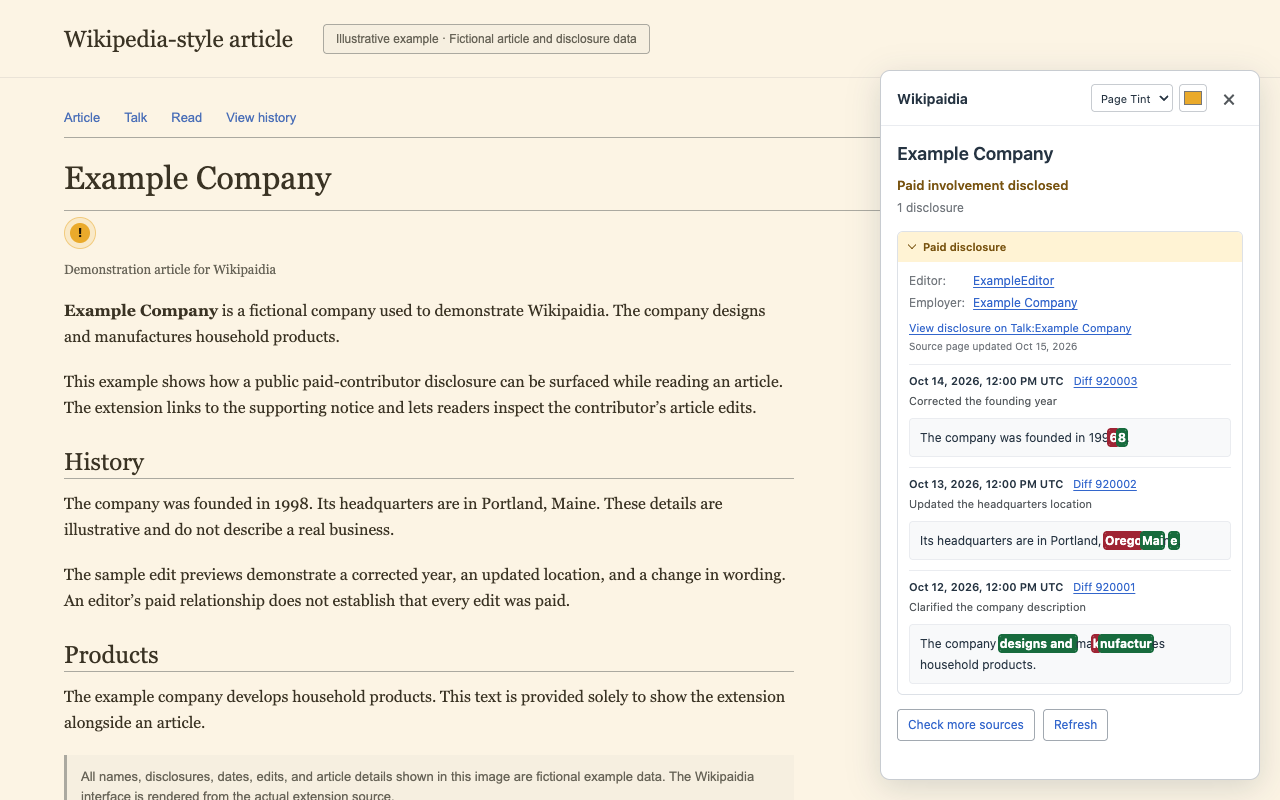
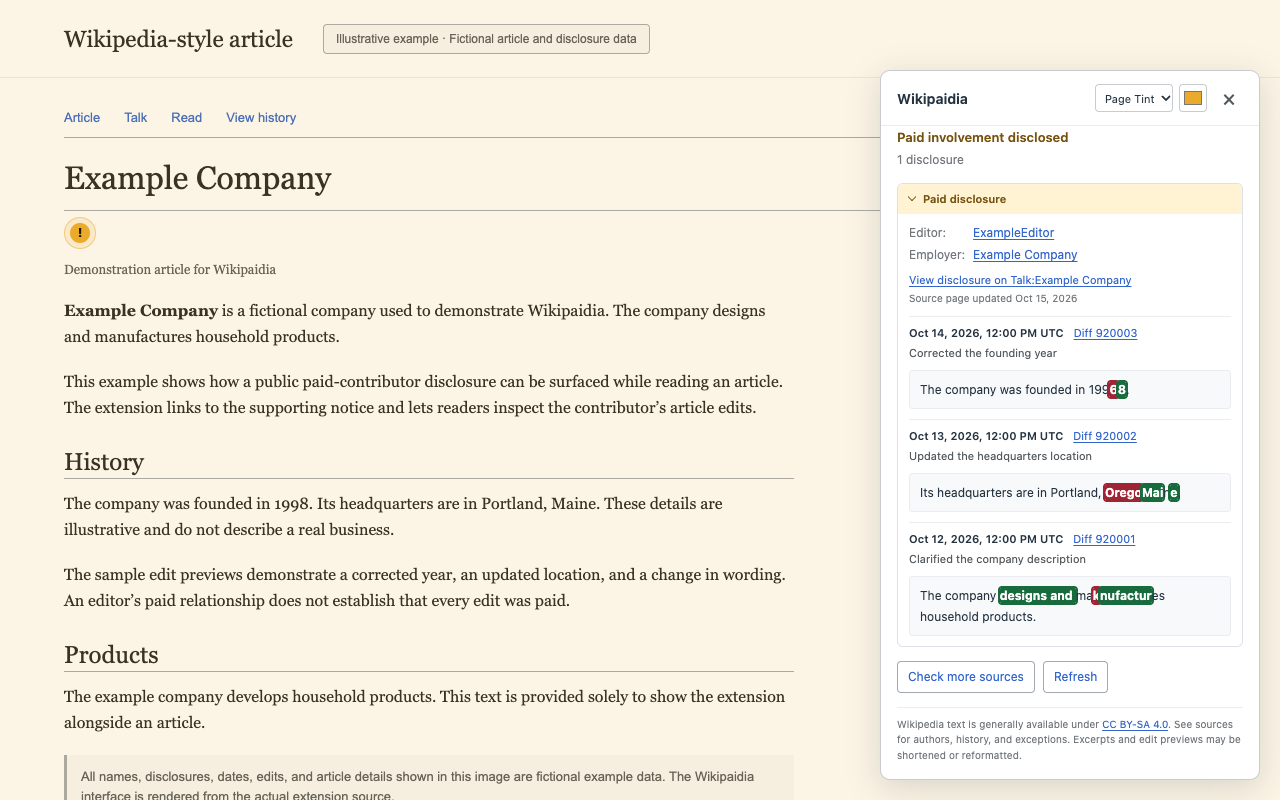
Add Wikipedia text attribution and record store preparation

Changed region(s): [[0.6875, 0.1562, 0.9688, 0.9688], [0.875, 0.0938, 0.9062, 0.125]]

diff --git a/extension/content.js b/extension/content.js
@@ -124,6 +124,8 @@
     .action:hover { background:#f8f9fa; }
     .action:disabled { opacity:.5; cursor:wait; }
     .warning { color:#785310; font-size:11px; margin-top:8px; }
+    .attribution { margin-top:14px; padding-top:9px; border-top:1px solid #eaecf0; color:#72777d; font-size:10px; line-height:1.55; }
+    .attribution .source { font-size:inherit; }
     .preference-error { color:#785310; font-size:11px; padding:7px 16px 0; }
     @media(max-width:480px) { .panel { right:12px; top:12px; width:calc(100vw - 24px); height:calc(100dvh - 24px); } }
     @media print { .panel,.page-tint { display:none !important; } }
@@ -779,7 +781,12 @@
   actions.append(moreButton, refreshButton);
   const sourceError = el("p", "warning");
   sourceError.setAttribute("role", "status");
-  scroll.append(articleTitle, statusBox, historical, cards, actions, sourceError);
+  const attribution = el("p", "attribution");
+  attribution.hidden = true;
+  attribution.append("Wikipedia text is generally available under ",
+    sourceLink("CC BY-SA 4.0", "https://en.wikipedia.org/wiki/Wikipedia:Text_of_the_Creative_Commons_Attribution-ShareAlike_4.0_International_License"),
+    ". See sources for authors, history, and exceptions. Excerpts and edit previews may be shortened or reformatted.");
+  scroll.append(articleTitle, statusBox, historical, cards, actions, sourceError, attribution);
 
   function evidenceKey(item) {
     return item.id || `${item.kind}:${item.sourceTitle}:${item.sourceRevision}:${item.contributor || ""}:${item.coiType || ""}`;
@@ -832,6 +839,7 @@
       refreshButton.textContent = error ? "Retry" : loading ? "Refreshing…" : "Refresh";
       sourceError.textContent = augmentationError;
       sourceError.hidden = !augmentationError;
+      attribution.hidden = evidence.length === 0;
     });
     startAutomaticEdits();
   }

diff --git a/store-submissions/safari-listing.md b/store-submissions/safari-listing.md
@@ -8,9 +8,33 @@ Safari/WebKit behavior and the macOS containing app.
 This submission targets **Safari on macOS only**. It does not claim iPhone, iPad
 or visionOS support. Use `dist/Wikipaidia-Safari-0.11.0.zip` with Apple's web
 packager, or create a store-signed build from the same completed release source.
-The verified ZIP is 154,375 bytes and contains 13 files including `LICENSE`.
[1 lines of base64/hex data omitted]
-App Store Connect packaging, signing and review remain separate steps.
+The verified ZIP is 155,037 bytes and contains 13 files including `LICENSE`.
[1 lines of base64/hex data omitted]
+The ZIP has been uploaded to Apple's packager and associated with Wikipaidia.
+Build **0.11.0 (1)** failed while exporting for App Store distribution. Apple's
+issues page asks for a logs artifact but exposes no download control. The export
+failure's cause remains unknown; the unsupported-manifest-key warning is not a
+confirmed cause. The app has not been submitted for review.
+
+## Current App Store Connect status
+
+- macOS app record: [Wikipaidia, app ID 6829067688](https://appstoreconnect.apple.com/apps/6829067688/distribution).
+- Registered bundle ID: `com.michaeljasonhoward.Wikipaidia`.
+- Registered SKU: `wikipaidia-macos`.
+- Safari ZIP uploaded and associated with Wikipaidia; build **0.11.0 (1)** failed
+  during App Store export. The refreshed candidate with the content-license
+  notice is uploaded as **0.11.0 (2)** and is being packaged. No signed build is
+  ready for review.
+- A local Release archive compiled for Intel and Apple silicon, with a macOS
+  13.0 deployment target and the registered identifiers. It still needs
+  distribution signing, upload and native runtime testing.
+- Three labeled WebKit fixture screenshots have been uploaded to the listing.
+  These are demonstration captures, not native Safari screenshots.
+- A private App Review contact phone number is required before the metadata can
+  be saved. Awaiting the user's number; it must not be written into public files.
+- The privacy policy URL is saved. Publishing the draft privacy label and
+  completing the age-rating and content-rights declarations await the publisher's
+  approval.
 
 ## App Store fields
 
@@ -30,11 +54,14 @@ App Store Connect packaging, signing and review remain separate steps.
 | Privacy policy URL | https://github.com/distrbnce/Wikipaidia/blob/main/PRIVACY.md — verify the finalized policy is public before submission |
 | Copyright | 2026 Wikipaidia contributors; consistent with the published MIT license |
 | Review contact name | Michael Howard |
-| Review contact phone | Provided in publisher account |
+| Review contact phone | Awaiting user-provided private reviewer number; required before metadata saves |
 | Review contact email | contact@michaeljasonhoward.com, unless the user supplies a separate review contact |
 | Sign-in required | No |
-| Bundle ID / SKU | Choose or verify in the publisher account; do not invent an existing registered identifier |
-| Minimum macOS version | Confirm from the actual packaged build; no minimum is claimed in this draft |
+| Bundle ID | com.michaeljasonhoward.Wikipaidia |
+| SKU | wikipaidia-macos |
+| App Store Connect app ID | 6829067688 |
+| App Store Connect URL | https://appstoreconnect.apple.com/apps/6829067688/distribution |
+| Minimum macOS version | Local fallback archive targets macOS 13.0; confirm the cloud-generated build separately and complete native runtime testing |
 
 Apple allows up to 30 characters each for name and subtitle; these values use
 10 and 27. [App information limits](https://developer.apple.com/help/app-store-connect/reference/app-information/app-information/)
@@ -88,24 +115,28 @@ summary verified against that earlier store build and the completed 0.11 build.
 
 ## Safari ZIP packaging path
 
-The user already has an Apple Developer account. Verify the correct team and
-active Apple Developer Program membership, then use the following documented
-path:
+The user has an Apple Developer account and the macOS app record above has been
+created. The route observed in this account is **global Xcode Cloud → More →
+Safari Web Extension Packager**, in the team's **Users and Access / Xcode Cloud**
+area. Do not rely on the packager being inside the app record's Xcode Cloud tab.
 
-1. Open **App Store Connect → Apps** and create or select the Wikipaidia app
-   record. Select **macOS** only. Confirm the name, registered bundle ID, SKU and
-   team in the account.
-2. Open the app's **Xcode Cloud** tab. Under **Safari Web Extension Packager**,
-   click **Upload**.
-3. Upload the completed, verified 0.11 Safari ZIP containing `manifest.json` and all
-   extension resources. This ZIP contains extension source, not the repository's
-   unsigned Debug app.
-4. Check packaging status and reported compatibility issues under **Builds**.
-   Test the resulting macOS app and extension through TestFlight before choosing
-   the build for review.
-5. Complete metadata, privacy information, screenshots and review notes. Confirm
-   the build/version and submit the appropriate macOS build for App Review using
-   the release settings approved in the publisher account.
+1. Select the existing macOS [Wikipaidia app record](https://appstoreconnect.apple.com/apps/6829067688/distribution).
+   Its bundle ID is `com.michaeljasonhoward.Wikipaidia` and SKU is
+   `wikipaidia-macos`.
+2. Open **global Xcode Cloud → More → Safari Web Extension Packager** and upload
+   the verified Safari ZIP. This upload and association with Wikipaidia have
+   already been completed. The ZIP contains extension source, not the
+   repository's unsigned Debug app.
+3. Wait for the current processing operation and inspect its result. No successful
+   build is confirmed yet. Check the resulting packaging status and any reported
+   compatibility issues, then test an available macOS build through TestFlight
+   before choosing it for review.
+4. Complete metadata, privacy information, screenshots and review notes. Three
+   labeled WebKit fixture screenshots are uploaded. Metadata saving is currently
+   waiting for the user's private reviewer phone number.
+5. After a successful build and completed metadata are confirmed, select the
+   appropriate macOS build and submit it for App Review using the approved
+   release settings. This submission has not happened yet.
 
 Apple's web packager handles app packaging; no claim is made that the existing
 unsigned local app is store ready. If the account does not show the packager,

diff --git a/store-submissions/README.md b/store-submissions/README.md
@@ -30,7 +30,7 @@ the archive root.
 Both verified packages have SHA-256:
 
 ```text
[2 lines of base64/hex data omitted]
 ```
 
 Rebuild and recheck the hashes after any extension or license change. The native
@@ -52,10 +52,30 @@ For Edge, create a Microsoft Edge developer account in Partner Center, upload th
 Edge ZIP, fill in the listing and privacy fields, and submit for certification.
 [Microsoft's publishing guide](https://learn.microsoft.com/en-us/microsoft-edge/extensions/publish/publish-extension)
 
-For Safari, create a macOS app record in App Store Connect, then use **Xcode Cloud
-→ Safari Web Extension Packager** to upload the Safari ZIP. Check and test the
-generated build, complete the store metadata and privacy fields, and submit the
-macOS build for review.
+For Safari, the macOS [Wikipaidia app record](https://appstoreconnect.apple.com/apps/6829067688/distribution)
+has been created with app ID **6829067688**, registered bundle ID
+`com.michaeljasonhoward.Wikipaidia` and SKU `wikipaidia-macos`.
+
+The route observed in this account is **global Xcode Cloud → More → Safari Web
+Extension Packager**, in the team's **Users and Access / Xcode Cloud** area; the
+packager is not necessarily inside the app record's tab. The verified Safari ZIP
+has been uploaded and associated with Wikipaidia. Build **0.11.0 (1)** failed
+while exporting for App Store distribution. Apple's issues page requests a logs
+artifact but exposes no download control; the underlying export failure remains
+unknown. The unsupported-manifest-key warning alone does not establish its cause.
+The refreshed candidate, including the in-panel content-license notice, is
+uploaded as **0.11.0 (2)** and is being packaged. A local Release archive also
+compiled for Intel and Apple silicon with a macOS 13.0 deployment target; it is
+not signed for distribution and has not been tested on every supported OS.
+
+Three labeled WebKit fixture screenshots have been uploaded to the listing.
+Version-listing metadata cannot yet be saved because App Review requires a
+private reviewer phone number, which is awaiting the user. Keep that number out of public files. Once
+packaging or native signing succeeds, test the resulting macOS build, finish the
+metadata and privacy fields, and then submit it for review. The privacy policy URL
+is saved; publishing the privacy label and completing the age-rating and content
+rights declarations await publisher approval. **No App Review submission has been
+made.**
 [Apple's packaging guide](https://developer.apple.com/documentation/safariservices/packaging-and-distributing-safari-web-extensions-with-app-store-connect)
 
 Use the current publisher forms' definitions when completing privacy disclosures.

diff --git a/README.md b/README.md
@@ -249,5 +249,9 @@ executing wikitext. Results carry their exact source links into the panel.
 - [Google: Load an unpacked extension](https://developer.chrome.com/docs/extensions/get-started/tutorial/hello-world#load-unpacked)
 - [Microsoft: Sideload an extension](https://learn.microsoft.com/en-us/microsoft-edge/extensions/getting-started/extension-sideloading)
 
-Code is available under the MIT license. Wikipedia source text remains under its
-applicable license; evidence links provide source and contributor attribution.
+Code is available under the MIT license. Wikipedia text is generally available
+under [CC BY-SA 4.0](https://en.wikipedia.org/wiki/Wikipedia:Text_of_the_Creative_Commons_Attribution-ShareAlike_4.0_International_License);
+sources may identify exceptions or additional attribution requirements. The panel
+links to the license and exact sources for authors and revision history. Excerpts
+and edit previews may be shortened or reformatted; their applicable licenses
+continue to apply.

diff --git a/store-submissions/assets/README.md b/store-submissions/assets/README.md
@@ -11,6 +11,10 @@ The `chromium/` and `webkit/` folders each contain three **1280×800 opaque RGB 
 - `02-evidence-and-edits.png`: the actual evidence panel and inline edit comparisons.
 - `03-page-tint.png`: the actual page-tint preference applied to the article.
 
+The evidence-panel images use its normal scroll position at the bottom so the
+complete Wikipedia license/attribution note is visible. The interface layout and
+controls are unchanged.
+
 These screenshots render the current extension source with **visibly identified,
 fictional example data**, using isolated Playwright browser contexts. They show the
 actual interface, not a redrawn mockup. The capture does not contact Wikipedia or

diff --git a/store-submissions/edge-listing.md b/store-submissions/edge-listing.md
@@ -5,9 +5,9 @@ Prepared October 30, 2026 for the completed **0.11.0** source. Source checks,
 installed-extension checks passed. Microsoft Edge was not installed locally;
 these checks do not establish that Edge-specific review has been completed.
 
-Verified package: `dist/Wikipaidia-Edge-0.11.0.zip`, 154,375 bytes, 13 files
+Verified package: `dist/Wikipaidia-Edge-0.11.0.zip`, 155,037 bytes, 13 files
 including `LICENSE`.
[2 lines of base64/hex data omitted]
 Publisher registration and store certification remain separate steps.
 
 ## Listing fields
